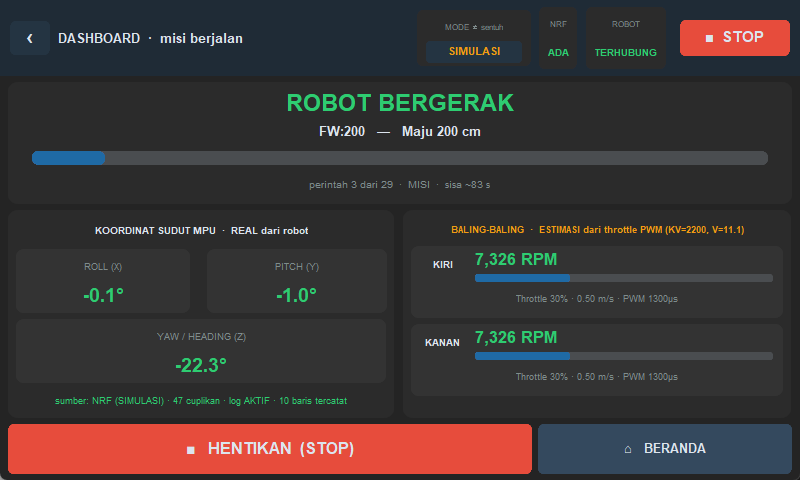
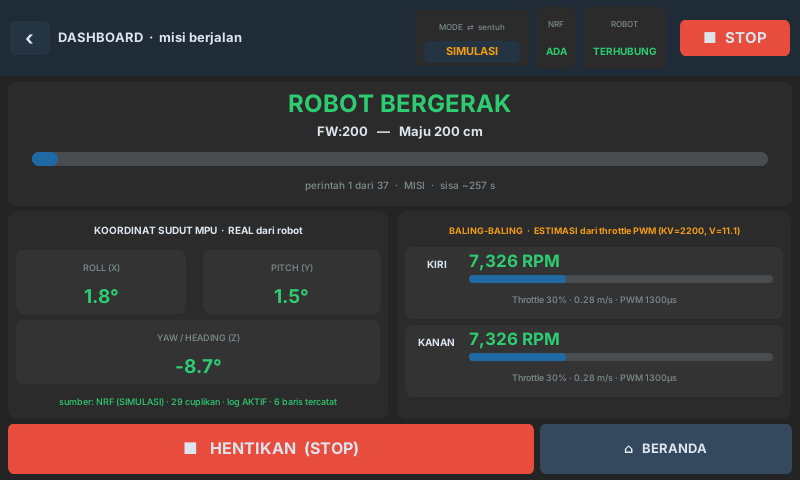
Samakan flowchart FW/belok dan screenshot GUI dengan kode terbaru
- flowchart.md bagian 5: durasi FW = FW_START_MS + jarak/kecepatan
  (2100 ms + jarak ÷ 0,28 m/s), koreksi heading hanya saat MPU sehat
- flowchart.md bagian 6: stopDeg = max(deg − 15°, 0,3 × deg) sebagai
  kompensasi inersia, cabang open-loop saat MPU mati, catatan kabel ESC
  tersilang
- render ulang PNG diagram 06-5 dan 07-6
- ambil ulang 7 screenshot GUI (5 jalur / 37 perintah untuk 10×4 m,
  kecepatan 0,28 m/s) agar sama dengan isi skripsi

diff --git a/flowchart.md b/flowchart.md
@@ -187,7 +187,7 @@ flowchart TD
 
 ```mermaid
 flowchart TD
-    ENTRY(["Mulai executeForward(distCm)"]) --> CALC["targetYaw = yaw saat ini<br/>durationMs = (distCm/100) / speed × 1000"]
+    ENTRY(["Mulai executeForward(distCm)"]) --> CALC["targetYaw = yaw saat ini<br/>durationMs = FW_START_MS + (distCm/100) / speed × 1000<br/>(2100 ms + jarak ÷ 0,28 m/s)"]
     CALC --> TIMECHECK{Waktu<br/>habis?}
     TIMECHECK -- Ya --> STOPFN([Stop Boat → MOVE_DONE])
     TIMECHECK -- Tidak --> UPD[mpu.update]
@@ -196,7 +196,7 @@ flowchart TD
     SIG -- Ya --> STOPQ{STOP<br/>diterima?}
     STOPQ -- Ya --> ABORT([🛑 Stop Boat → MOVE_STOPPED])
     STOPQ -- Tidak --> ERR["error = targetYaw - yaw<br/>normalisasi ke -180..180"]
-    ERR --> DEAD{"|error| > 2°?"}
+    ERR --> DEAD{"MPU sehat dan<br/>|error| > 2°?"}
     DEAD -- Tidak --> STRAIGHT["correction = 0<br/>(lurus)"]
     DEAD -- Ya --> PROP["correction = Kp × error<br/>clamp ±MAX_CORRECTION"]
     PROP --> WRITE
@@ -216,25 +216,33 @@ flowchart TD
 
 ```mermaid
 flowchart TD
-    ENTRY(["Mulai executeTurn(deg, clockwise)"]) --> INIT["startYaw = yaw saat ini<br/>limitMs = deg/TURN_RATE × 3000 + 3000"]
+    ENTRY(["Mulai executeTurn(deg, clockwise)"]) --> INIT["startYaw = yaw saat ini<br/>openLoopMs = deg / TURN_RATE × 1000<br/>limitMs = openLoopMs × 3 + 3000<br/>stopDeg = max(deg − 15°, 0,3 × deg)"]
     INIT --> SPIN{clockwise?}
-    SPIN -- Ya --> CW["spinCW<br/>Kiri = 1300, Kanan = diam"]
-    SPIN -- Tidak --> CCW["spinCCW<br/>Kiri = diam, Kanan = 1300"]
+    SPIN -- Ya --> CW["spinCW<br/>motor kiri jalan, kanan diam"]
+    SPIN -- Tidak --> CCW["spinCCW<br/>motor kanan jalan, kiri diam"]
     CW --> LOOP
     CCW --> LOOP{Batas waktu<br/>terlampaui?}
     LOOP -- Ya --> TIMEOUT([Stop Boat → MOVE_DONE<br/>batas waktu pengaman])
     LOOP -- Tidak --> UPD[mpu.update]
     UPD --> SIG{"serviceRadio +<br/>cek STOP"}
     SIG -- "Gagal" --> ABORT([🛑 Stop Boat<br/>MOVE_STOPPED / LOST_SIGNAL])
-    SIG -- OK --> DELTA["delta = yaw - startYaw<br/>normalisasi ke -180..180"]
+    SIG -- OK --> MPUOK{MPU sehat?}
+    MPUOK -- Tidak --> OPEN{"waktu ≥ openLoopMs?"}
+    OPEN -- Ya --> OPENDONE([Stop Boat → MOVE_DONE<br/>putaran open-loop])
+    OPEN -- Tidak --> DELAY
+    MPUOK -- Ya --> DELTA["delta = yaw - startYaw<br/>normalisasi ke -180..180"]
     DELTA --> TURNED["turned = (clockwise ? -delta : delta) × YAW_SIGN"]
-    TURNED --> REACH{"turned ≥ deg - 3°?"}
+    TURNED --> REACH{"turned ≥ stopDeg?"}
     REACH -- Ya --> DONE([✅ Stop Boat → MOVE_DONE])
     REACH -- Tidak --> DELAY[delay 20ms]
     DELAY --> LOOP
 ```
 
-> **Sudut ditutup oleh sensor, bukan oleh waktu.** Konstanta `TURN_90_MS` yang dulu rawan sudah dihapus; `TURN_RATE_DPS` kini hanya dipakai untuk menghitung batas waktu pengaman.
+> **Sudut ditutup oleh sensor, bukan oleh waktu.** Konstanta `TURN_90_MS` yang dulu rawan sudah dihapus; `TURN_RATE_DPS` kini hanya dipakai untuk menghitung batas waktu pengaman dan putaran open-loop saat MPU mati.
+>
+> **Kompensasi inersia (`TURN_COAST_DEG` = 15°).** Robot masih berputar ± 15° setelah motor mati, jadi motor dimatikan 15° sebelum target (minimal 30% sudut perintah agar putaran kecil tetap berjalan).
+>
+> **Arah motor.** Kabel ESC tersilang (pin ESC kiri menggerakkan motor kanan fisik), sehingga isi `spinCW()`/`spinCCW()` ditukar di firmware; diagram ini menuliskan motor menurut posisi fisiknya.
 >
 > ESC **unidirectional** → putaran memakai *differential thrust*, jadi robot berputar melingkar lebar (posisi ikut bergeser), bukan berputar di tempat. Sudut akhirnya tetap akurat.
 >
